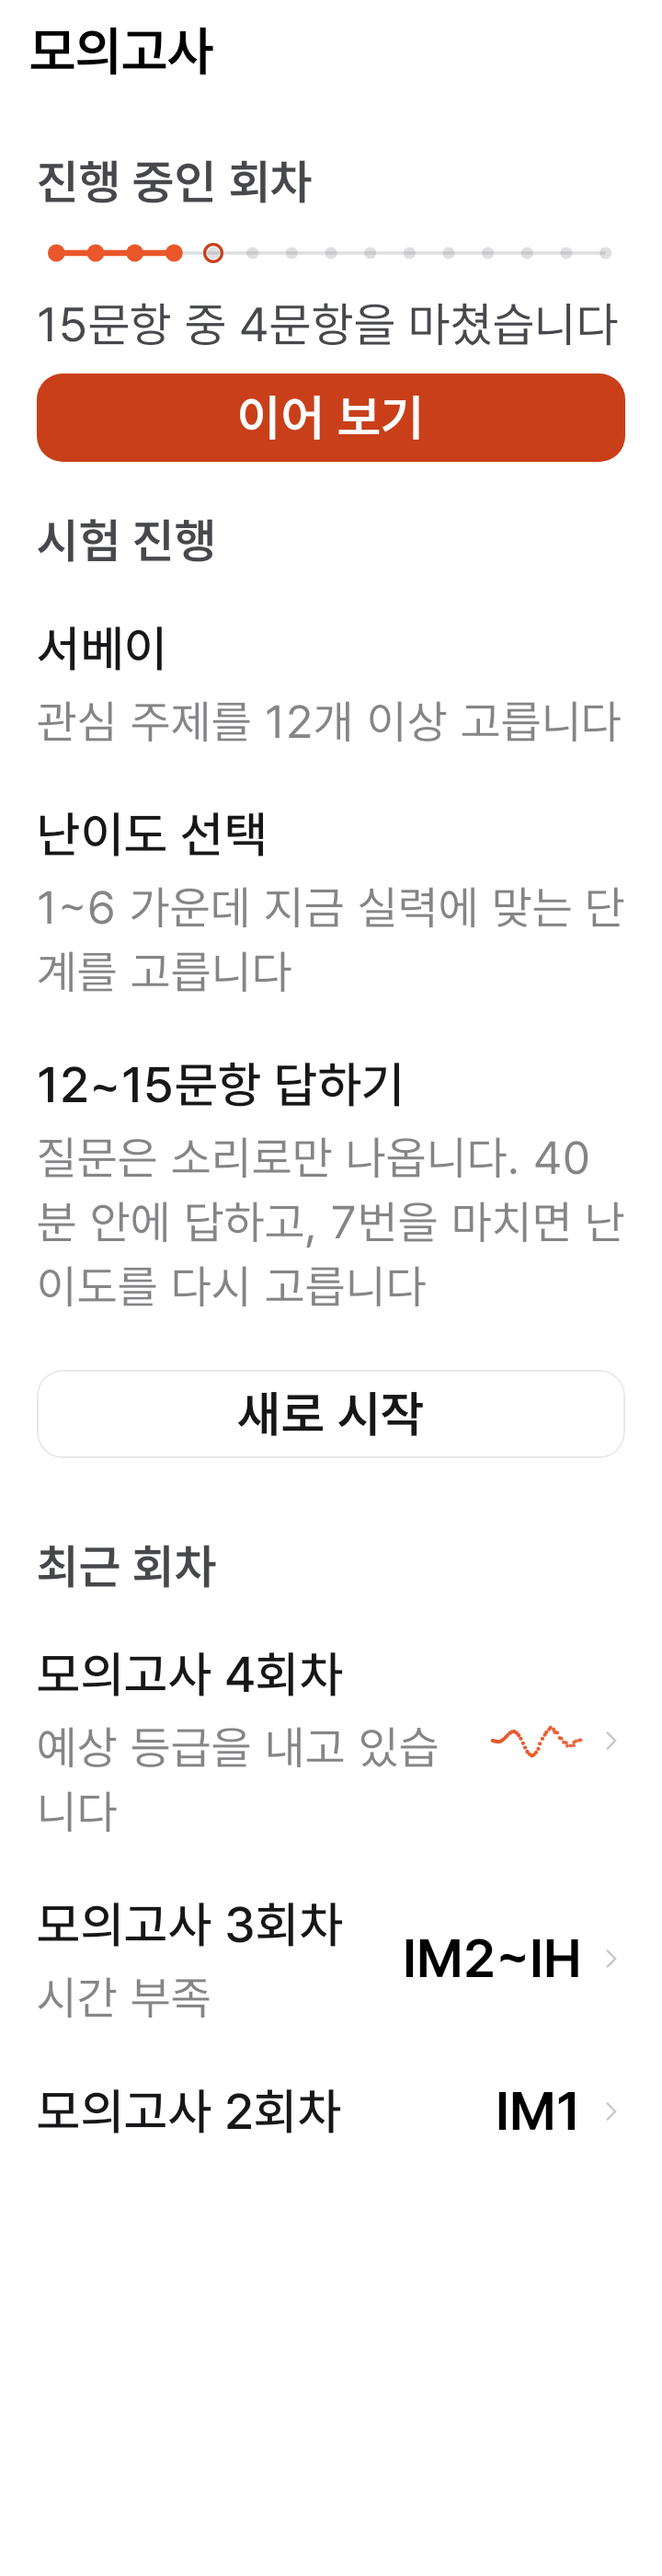
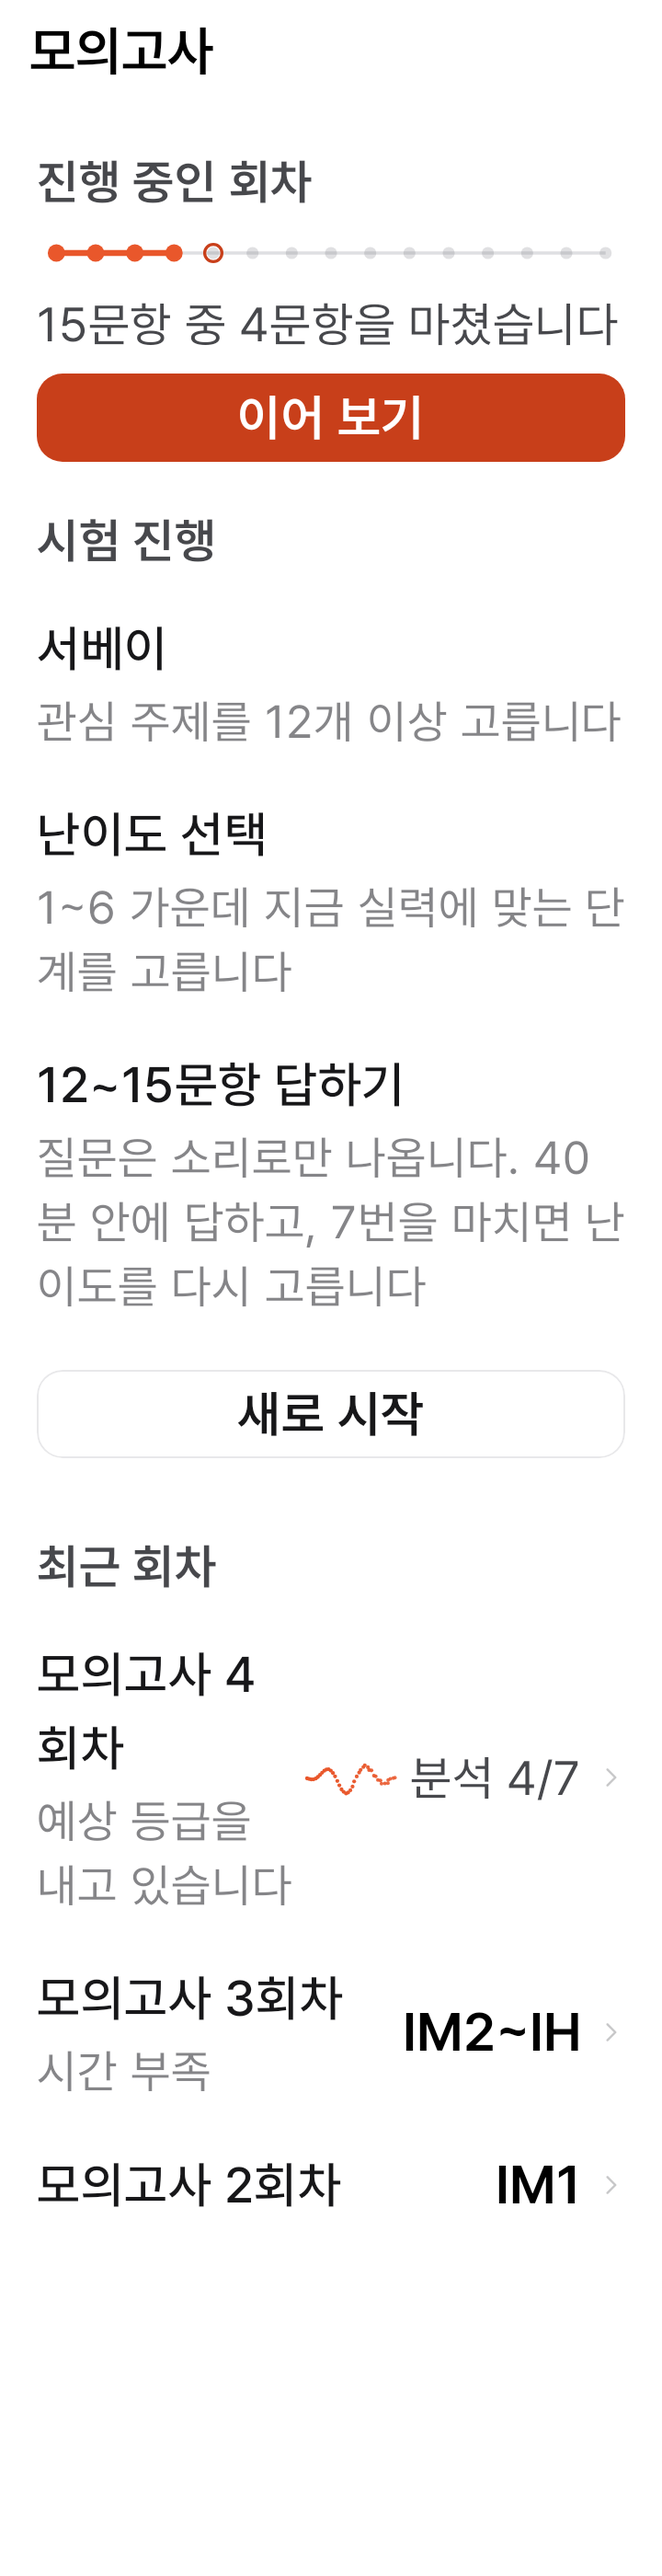
[exam-tab-ui] 등급을 기다리는 회차 줄에 기록 탭과 같은 분석 진행을 보인다 (#230)

diff --git a/ui/feature-home/src/commonTest/kotlin/io/github/nosorae/aiopic/ui/featurehome/HomeViewModelTest.kt b/ui/feature-home/src/commonTest/kotlin/io/github/nosorae/aiopic/ui/featurehome/HomeViewModelTest.kt
@@ -1,5 +1,10 @@
 package io.github.nosorae.aiopic.ui.featurehome
 
+import io.github.nosorae.aiopic.engine.answer.model.AnalyzedBy
+import io.github.nosorae.aiopic.engine.answer.model.Answer
+import io.github.nosorae.aiopic.engine.answer.model.AnswerAnalysis
+import io.github.nosorae.aiopic.engine.answer.model.UnscorableReason
+import io.github.nosorae.aiopic.engine.question.model.Question
 import io.github.nosorae.aiopic.engine.question.model.QuestionType
 import io.github.nosorae.aiopic.engine.session.model.AnalysisError
 import io.github.nosorae.aiopic.engine.session.model.ExamSession
@@ -29,8 +34,11 @@ import kotlin.time.Duration.Companion.minutes
 class HomeViewModelTest {
     private val dispatcher = StandardTestDispatcher()
     private val sessions = MutableStateFlow<List<ExamSession>>(emptyList())
+    private val answers = MutableStateFlow<List<Answer>>(emptyList())
     private val source = object : ExamSessionSource {
         override fun sessions() = sessions
+
+        override fun answers() = answers
 
         override suspend fun save(session: ExamSession) = sessions.update { all -> all.map { if (it.id == session.id) session else it } }
     }
@@ -116,13 +124,41 @@ class HomeViewModelTest {
             ExamSession(id = "b", status = ExamStatus.TimeUp),
             ExamSession(id = "c", status = ExamStatus.Finished, answerIds = listOf("y")),
         )
+        answers.value = listOf(answer("x", "a"), answer("y", "c"))
 
         val viewModel = loadedViewModel()
 
         assertEquals(
-            listOf(Triple("c", false, false), Triple("b", false, true), Triple("a", true, false)),
-            viewModel.uiState.value.pastSessions?.map { Triple(it.id, it.gradeFailed, it.noAnswers) },
+            listOf(Triple("c", false, 1), Triple("b", false, 0), Triple("a", true, 1)),
+            viewModel.uiState.value.pastSessions?.map { Triple(it.id, it.gradeFailed, it.answered) },
         )
+    }
+
+    @Test
+    fun `등급을 기다리는 회차는 기록 탭처럼 답한 수 중 분석이 끝난 수를 센다`() = runTest(dispatcher) {
+        sessions.value = listOf(ExamSession(id = "a", status = ExamStatus.Finished, answerIds = listOf("x", "y", "z")))
+        answers.value = listOf(
+            answer("x", "a", AnswerAnalysis.Unscorable(AnalyzedBy("p", "m", "v1"), UnscorableReason.Silent)),
+            answer("y", "a"),
+            answer("z", "a", AnswerAnalysis.Unscorable(AnalyzedBy("p", "m", "v1"), UnscorableReason.Silent)),
+            answer("w", null, AnswerAnalysis.Unscorable(AnalyzedBy("p", "m", "v1"), UnscorableReason.Silent)),
+        )
+
+        val viewModel = loadedViewModel()
+
+        assertEquals(2 to 3, viewModel.uiState.value.pastSessions!!.single().let { it.analyzed to it.answered })
+    }
+
+    @Test
+    fun `답변 분석이 끝나면 회차의 분석 수가 바로 오른다`() = runTest(dispatcher) {
+        sessions.value = listOf(ExamSession(id = "a", status = ExamStatus.Finished, answerIds = listOf("x")))
+        answers.value = listOf(answer("x", "a"))
+        val viewModel = loadedViewModel()
+
+        answers.value = listOf(answer("x", "a", AnswerAnalysis.Unscorable(AnalyzedBy("p", "m", "v1"), UnscorableReason.Silent)))
+        advanceUntilIdle()
+
+        assertEquals(1, viewModel.uiState.value.pastSessions!!.single().analyzed)
     }
 
     @Test
@@ -189,6 +225,9 @@ class HomeViewModelTest {
 
         assertEquals(ExamOverview(minTopics = 12, levelCount = 6, minQuestions = 2, maxQuestions = 3, minutes = 40, recalibrateAfter = 2), viewModel.uiState.value.overview)
     }
+
+    private fun answer(id: String, sessionId: String?, analysis: AnswerAnalysis = AnswerAnalysis.Pending) =
+        Answer(id = id, question = Question("q", "text", QuestionType("t"), "topic"), examSessionId = sessionId, chunkPaths = emptyList(), analysis = analysis)
 
     private fun grade(low: String, high: String) = SessionGrade(checks = listOf(GradeCheck("1", true)), low = low, high = high, reasons = emptyList(), brokeAt = emptyList())
 }

diff --git a/ui/feature-home/src/commonMain/kotlin/io/github/nosorae/aiopic/ui/featurehome/HomeScreen.kt b/ui/feature-home/src/commonMain/kotlin/io/github/nosorae/aiopic/ui/featurehome/HomeScreen.kt
@@ -2,6 +2,7 @@ package io.github.nosorae.aiopic.ui.featurehome
 
 import androidx.compose.foundation.layout.Arrangement
 import androidx.compose.foundation.layout.Column
+import androidx.compose.foundation.layout.Row
 import androidx.compose.foundation.layout.fillMaxWidth
 import androidx.compose.foundation.layout.padding
 import androidx.compose.foundation.layout.size
@@ -14,6 +15,7 @@ import androidx.compose.runtime.key
 import androidx.compose.runtime.mutableStateOf
 import androidx.compose.runtime.saveable.rememberSaveable
 import androidx.compose.runtime.setValue
+import androidx.compose.ui.Alignment
 import androidx.compose.ui.Modifier
 import androidx.compose.ui.platform.testTag
 import androidx.compose.ui.semantics.heading
@@ -154,12 +156,12 @@ private fun Overview(overview: ExamOverview) {
 }
 
 /**
- * 기록 탭의 회차 줄과 같은 모양이다. 등급이 나왔으면 오른쪽에 크게, 등급을 못 냈으면 실패를, 답 없이 끝났으면 아무것도 보이지 않는다.
- * 실제로 등급을 기다리는 회차만 작은 물결과 무엇이 나오는지를 보인다.
+ * 기록 탭의 회차 줄과 같은 분기다. 등급이 나왔으면 오른쪽에 크게, 등급을 못 냈으면 실패를, 답 없이 끝났으면 아무것도 보이지 않는다.
+ * 등급을 기다리는 회차는 기록 탭과 같은 진행 글자("분석 4/7", 다 끝났으면 "등급 내는 중") 옆에 작은 물결을 두고, 아래에 무엇이 나오는지를 보인다.
  */
 @Composable
 private fun SessionRow(session: PastSession, onClick: () -> Unit) {
-    val pending = session.gradeRange == null && !session.gradeFailed && !session.noAnswers
+    val pending = session.gradeRange == null && !session.gradeFailed && session.answered > 0
     MontageListCell(
         title = stringResource(Res.string.home_session, session.number),
         caption = when {
@@ -180,9 +182,20 @@ private fun SessionRow(session: PastSession, onClick: () -> Unit) {
                 color = MontageTheme.colors.foregroundNegativePrimary,
             )
 
-            session.noAnswers -> Unit
+            session.answered == 0 -> Unit
 
-            else -> MontageGatheringDots(stringResource(Res.string.home_grade_pending), Modifier.size(width = MontageSpacing.spacing48, height = MontageSpacing.spacing24))
+            else -> Row(verticalAlignment = Alignment.CenterVertically, horizontalArrangement = Arrangement.spacedBy(MontageSpacing.spacing8)) {
+                MontageGatheringDots(stringResource(Res.string.home_grade_pending), Modifier.size(width = MontageSpacing.spacing48, height = MontageSpacing.spacing24))
+                Text(
+                    if (session.analyzed < session.answered) {
+                        stringResource(Res.string.home_grade_waiting, session.analyzed, session.answered)
+                    } else {
+                        stringResource(Res.string.home_grade_grading)
+                    },
+                    style = MontageTheme.typography.label1.regular,
+                    color = MontageTheme.colors.foregroundNeutralSecondary,
+                )
+            }
         }
     }
 }
@@ -222,7 +235,7 @@ internal object HomeSamples {
         resumeDone = 4,
         resumeTotal = 15,
         pastSessions = listOf(
-            PastSession(id = "c", number = 4, gradeRange = null, timeUp = false),
+            PastSession(id = "c", number = 4, gradeRange = null, timeUp = false, answered = 7, analyzed = 4),
             PastSession(id = "b", number = 3, gradeRange = "IM2~IH", timeUp = true),
             PastSession(id = "a", number = 2, gradeRange = "IM1", timeUp = false),
             PastSession(id = "z", number = 1, gradeRange = "IL", timeUp = false),

diff --git a/ui/feature-home/src/commonMain/kotlin/io/github/nosorae/aiopic/ui/featurehome/ObserveHomeUseCase.kt b/ui/feature-home/src/commonMain/kotlin/io/github/nosorae/aiopic/ui/featurehome/ObserveHomeUseCase.kt
@@ -4,8 +4,9 @@ import dev.zacsweers.metro.Inject
 import io.github.nosorae.aiopic.engine.session.model.ExamSpec
 import io.github.nosorae.aiopic.engine.session.model.ExamStatus
 import io.github.nosorae.aiopic.engine.session.model.ExamStep
+import io.github.nosorae.aiopic.engine.answer.model.AnswerAnalysis
 import kotlinx.coroutines.flow.Flow
-import kotlinx.coroutines.flow.map
+import kotlinx.coroutines.flow.combine
 
 /**
  * 다시 보기는 끝까지 본 회차(시간 부족 포함)만 고른다. 미완료로 끝낸 회차는 기록 탭에만 있다.
@@ -24,7 +25,8 @@ class ObserveHomeUseCase(private val examSessionSource: ExamSessionSource, priva
 
     private fun askCount(level: Int) = spec.steps.count { it is ExamStep.Ask && it.minLevel <= level }
 
-    operator fun invoke(): Flow<HomeUiState> = examSessionSource.sessions().map { sessions ->
+    operator fun invoke(): Flow<HomeUiState> = combine(examSessionSource.sessions(), examSessionSource.answers()) { sessions, answers ->
+        val bySession = answers.groupBy { it.examSessionId }
         val resume = sessions.lastOrNull { it.status == ExamStatus.InProgress }
         HomeUiState(
             resumeSessionId = resume?.id,
@@ -32,13 +34,16 @@ class ObserveHomeUseCase(private val examSessionSource: ExamSessionSource, priva
             resumeTotal = resume?.let { askCount(it.level ?: 1) } ?: 0,
             pastSessions = sessions
                 .mapIndexed { index, session ->
+                    val own = bySession[session.id].orEmpty()
                     PastSession(
                         id = session.id,
                         number = index + 1,
                         gradeRange = session.grade?.let { if (it.low == it.high) it.low else "${it.low}~${it.high}" },
                         timeUp = session.status == ExamStatus.TimeUp,
                         gradeFailed = session.gradeError != null,
-                        noAnswers = session.answerIds.isEmpty(),
+                        // 기록 탭(ObserveHistoryUseCase)과 같은 셈이라 같은 회차가 두 탭에서 같은 진행으로 보인다.
+                        answered = own.size,
+                        analyzed = own.count { it.analysis is AnswerAnalysis.Done || it.analysis is AnswerAnalysis.Unscorable },
                     ).takeIf { session.status == ExamStatus.Finished || session.status == ExamStatus.TimeUp }
                 }
                 .filterNotNull()

diff --git a/ui/feature-home/src/androidHostTest/kotlin/io/github/nosorae/aiopic/ui/featurehome/HomeScreenTest.kt b/ui/feature-home/src/androidHostTest/kotlin/io/github/nosorae/aiopic/ui/featurehome/HomeScreenTest.kt
@@ -134,8 +134,8 @@ class HomeScreenTest {
         show(
             HomeUiState(
                 pastSessions = listOf(
-                    PastSession(id = "b", number = 2, gradeRange = null, timeUp = false, gradeFailed = true),
-                    PastSession(id = "a", number = 1, gradeRange = null, timeUp = false, noAnswers = true),
+                    PastSession(id = "b", number = 2, gradeRange = null, timeUp = false, gradeFailed = true, answered = 3),
+                    PastSession(id = "a", number = 1, gradeRange = null, timeUp = false),
                 ),
             ),
         )
@@ -143,6 +143,22 @@ class HomeScreenTest {
         rule.onNodeWithText("등급 실패").assertExists()
         rule.onNodeWithContentDescription("예상 등급을 내고 있습니다").assertDoesNotExist()
         rule.onNodeWithText("예상 등급을 내고 있습니다").assertDoesNotExist()
+    }
+
+    @Test
+    fun `등급을 기다리는 회차는 기록 탭과 같이 분석이 몇 개 끝났는지 보이고 다 끝나면 등급을 내는 중이라고 보인다`() {
+        show(
+            HomeUiState(
+                pastSessions = listOf(
+                    PastSession(id = "b", number = 2, gradeRange = null, timeUp = false, answered = 7, analyzed = 4),
+                    PastSession(id = "a", number = 1, gradeRange = null, timeUp = false, answered = 5, analyzed = 5),
+                ),
+            ),
+        )
+
+        rule.onNodeWithText("분석 4/7").assertExists()
+        rule.onNodeWithText("등급 내는 중").assertExists()
+        assertEquals(2, rule.onAllNodesWithText("예상 등급을 내고 있습니다", substring = true).fetchSemanticsNodes().size)
     }
 
     @Test

diff --git a/ui/feature-home/src/commonMain/kotlin/io/github/nosorae/aiopic/ui/featurehome/HomeUiState.kt b/ui/feature-home/src/commonMain/kotlin/io/github/nosorae/aiopic/ui/featurehome/HomeUiState.kt
@@ -28,8 +28,9 @@ data class PastSession(
     val timeUp: Boolean,
     /** 등급을 요청했지만 받지 못했다(#203). 기다릴 것이 없어 물결 대신 실패를 보인다. */
     val gradeFailed: Boolean = false,
-    /** 답한 문항 없이 끝났다. 낼 등급이 없어 오른쪽을 비운다. */
-    val noAnswers: Boolean = false,
+    /** 이 회차에서 답한 문항 수와 그중 분석이 끝난 수. 등급을 기다리는 동안 기록 탭처럼 "분석 4/7" 로 보이고, 답한 문항이 없으면 낼 등급이 없어 오른쪽을 비운다. */
+    val answered: Int = 0,
+    val analyzed: Int = 0,
 )
 
 /** 시험이 어떻게 진행되는지. 화면은 시험 팩을 모르므로 시험 모양([io.github.nosorae.aiopic.engine.session.model.ExamSpec])에서 숫자만 옮겨 온다. */

diff --git a/ui/feature-home/src/commonMain/kotlin/io/github/nosorae/aiopic/ui/featurehome/ExamSessionSource.kt b/ui/feature-home/src/commonMain/kotlin/io/github/nosorae/aiopic/ui/featurehome/ExamSessionSource.kt
@@ -1,11 +1,15 @@
 package io.github.nosorae.aiopic.ui.featurehome
 
+import io.github.nosorae.aiopic.engine.answer.model.Answer
 import io.github.nosorae.aiopic.engine.session.model.ExamSession
 import kotlinx.coroutines.flow.Flow
 
 /** 저장된 회차 상태를 저장한 순서대로 내보내고, 새로 시작할 때 앞 회차를 끝내 저장한다. 앱 층이 저장소를 넣고, 테스트는 메모리로 구현한다. */
 interface ExamSessionSource {
     fun sessions(): Flow<List<ExamSession>>
+
+    /** 저장된 모든 답변. 등급을 기다리는 회차가 답변 몇 개 중 몇 개를 분석했는지 센다. */
+    fun answers(): Flow<List<Answer>>
 
     suspend fun save(session: ExamSession)
 }
